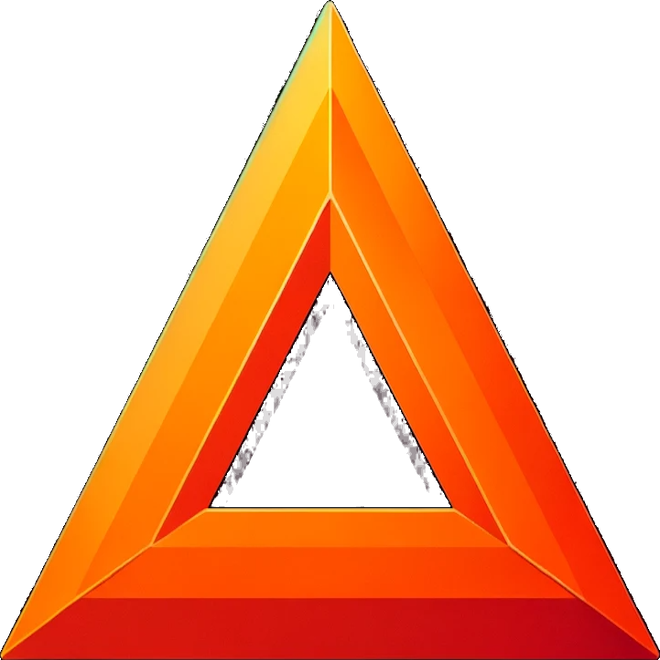
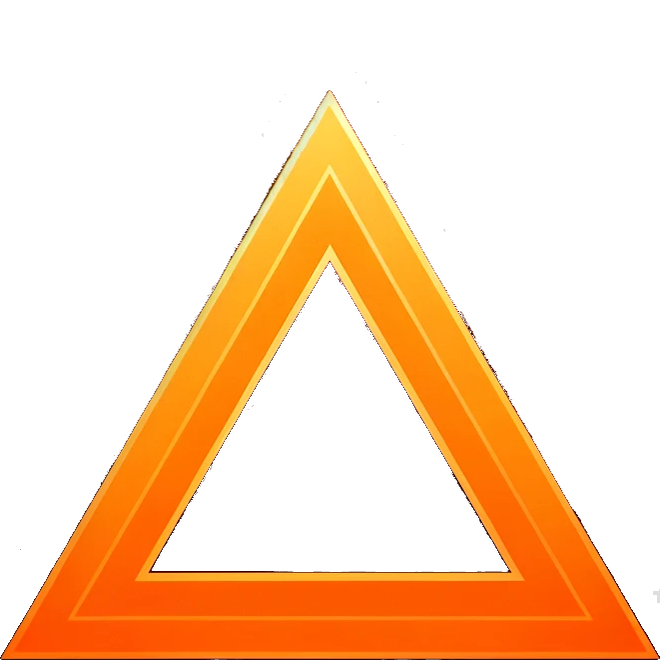
sort of working

diff --git a/src/game.rs b/src/game.rs
@@ -1,10 +1,13 @@
+use crate::collision::check_segment_collision;
 use crate::constants::{
-    ENEMY_BUFFER, ENEMY_SPAWN_FREQ, ENEMY_SPEED, GATE_SPAWN_FREQ, PLAYER_SPEED,
+    ENEMY_BUFFER, ENEMY_SPAWN_FREQ, ENEMY_SPEED, GATE_RADIUS, GATE_SPAWN_FREQ, PLAYER_RADIUS,
+    PLAYER_SPEED,
 };
 use crate::game_object::{Enemy, Gate, Player};
 
 use rand::{thread_rng, Rng};
 use std::collections::HashSet;
+use std::f32::consts::PI;
 use std::f32::EPSILON;
 use winit::event::VirtualKeyCode;
 
@@ -20,6 +23,7 @@ pub struct Game {
     last_gate_time: f32,
     pub keys: HashSet<VirtualKeyCode>,
     enemies_per_wave: u32,
+    aspect_ratio: f32,
 
     pub player: Player,
     pub enemies: Vec<Enemy>,
@@ -27,7 +31,7 @@ pub struct Game {
 }
 
 impl Game {
-    pub fn new() -> Self {
+    pub fn new(aspect_ratio: f32) -> Self {
         Self {
             paused: false,
             timer: 0f32,
@@ -35,6 +39,8 @@ impl Game {
             last_gate_time: 0f32,
             keys: HashSet::new(),
             enemies_per_wave: 1,
+            aspect_ratio,
+
             player: Player::new(),
             enemies: Vec::new(),
             gates: Vec::new(),
@@ -96,6 +102,8 @@ impl Game {
                 // println!("gate rot: {}", gate.rotation);
             }
 
+            self.check_collisions();
+
             self.timer += dt;
 
             if self.timer > self.last_enemy_time + ENEMY_SPAWN_FREQ {
@@ -106,6 +114,56 @@ impl Game {
             if self.timer > self.last_gate_time + GATE_SPAWN_FREQ {
                 println!("spawn gate");
                 self.spawn_gate();
+            }
+        }
+    }
+
+    fn check_collisions(&mut self) {
+        // check player-gate edge collision
+        let (px, py) = self.player.game_object.coords;
+
+        for gate in &self.gates {
+            // cannot use get_vertices method as that ignores rotation
+            // we use rotation for rendering via instances
+            let (gx, gy) = gate.game_object.coords;
+
+            // TODO: debug why this is necessary
+            // if we remove this, then we get lots of false positives from distant gates with
+            // vertices with very similar x coords, e.g.
+            // x1=0.19950452 is between x_min=0.19949819 and x_max=0.1995106
+            // player coords: (-0.15033174, 0.33800787)
+            // PLAYER_RADIUS: 0.05
+            // p=(0.19949819, 0.514558), q=(0.1995106, 0.16814788)
+            let (dx, dy) = (gx - px, gy - py);
+            if dx * dx + dy * dy <= GATE_RADIUS * GATE_RADIUS {
+                let theta = gate.rotation;
+                let s = 1f32 / self.aspect_ratio;
+
+                let v1 = (
+                    s * (gx + GATE_RADIUS * theta.cos()),
+                    gy + GATE_RADIUS * theta.sin(),
+                );
+                let v2 = (
+                    s * (gx + GATE_RADIUS * (theta + 2f32 * PI / 3f32).cos()),
+                    gy + GATE_RADIUS * (theta + 2f32 * PI / 3f32).sin(),
+                );
+                let v3 = (
+                    s * (gx + GATE_RADIUS * (theta + 4f32 * PI / 3f32).cos()),
+                    gy + GATE_RADIUS * (theta + 4f32 * PI / 3f32).sin(),
+                );
+
+                let pairs = vec![(v1, v2), (v2, v3), (v3, v1)];
+
+                for (p, q) in pairs {
+                    if check_segment_collision(&(s * px, py), &p, &q, PLAYER_RADIUS) {
+                        println!("EXPLODE!");
+                        self.paused = !self.paused;
+
+                        println!("player coords: ({}, {})", px, py);
+                        println!("PLAYER_RADIUS: {}", PLAYER_RADIUS);
+                        println!("p={:?}, q={:?}", p, q);
+                    }
+                }
             }
         }
     }

diff --git a/src/collision.rs b/src/collision.rs
@@ -1,0 +1,45 @@
+// check for the collision between a circle of radius r centered at z
+// and the line which contains points p and q
+pub fn check_segment_collision(z: &(f32, f32), p: &(f32, f32), q: &(f32, f32), r: f32) -> bool {
+    // solve for values alpha, beta that parameterize line between segments via
+    // y + alpha * x + beta = 0
+    let alpha = (q.1 - p.1) / (p.0 - q.0);
+    let beta = (p.1 * q.0 - p.0 * q.1) / (p.0 - q.0);
+
+    // now get coefficients of quadratic equation ax^2 + bx + c = 0
+    // by plugging y = -alpha * x - b into circle equation (x-z.0)^2 + (y-z.1)^2 = r^2
+    let a = 1f32 + alpha * alpha;
+    let b = 2f32 * alpha * (beta + z.1) - 2f32 * z.0;
+    let c = z.0 * z.0 + (beta + z.1) * (beta + z.1) - r * r;
+
+    // line and circle intersect iff discrim = b^2 - 4ac >= 0
+    let discriminant = b * b - 4f32 * a * c;
+    if discriminant >= 0f32 {
+        // get x values for solutions
+        let x1 = (-b + discriminant.sqrt()) / (2f32 * a);
+        let x2 = (-b - discriminant.sqrt()) / (2f32 * a);
+
+        // check if it lies between segments
+        let x_min = p.0.min(q.0);
+        let x_max = p.0.max(q.0);
+
+        if ((x1 >= x_min) && (x1 <= x_max)) {
+            println!("x1={} is between x_min={} and x_max={}", x1, x_min, x_max);
+            return true;
+        }
+
+        if ((x2 >= x_min) && (x2 <= x_max)) {
+            println!("x2={} is between x_min={} and x_max={}", x2, x_min, x_max);
+            return true;
+        }
+
+        false
+    } else {
+        false
+    }
+}
+
+pub fn check_point_collision(z: &(f32, f32), p: &(f32, f32), r: f32) -> bool {
+    let (dx, dy) = (z.0 - p.0, z.1 - p.1);
+    dx * dx + dy * dy <= r * r
+}

diff --git a/src/app.rs b/src/app.rs
@@ -33,9 +33,10 @@ pub struct App {
 
 impl App {
     pub async fn new(window: Window) -> Self {
-        let game = Game::new();
-
         let size = window.inner_size();
+        let aspect_ratio = size.width as f32 / size.height as f32;
+        let game = Game::new(aspect_ratio);
+
         // The instance is a handle to our GPU
         // BackendBit::PRIMARY => Vulkan + Metal + DX12 + Browser WebGPU
         let instance = wgpu::Instance::new(wgpu::InstanceDescriptor {

diff --git a/src/game_object.rs b/src/game_object.rs
@@ -154,7 +154,8 @@ impl Sprite for Gate {
         vec![
             Vertex {
                 position: [r * 0f32.cos(), r * 0f32.sin(), 0.0],
-                tex_coords: [t(0.5, i), 0.0],
+                // height of an equilateral triangle with base 1 is sqrt(3)/2
+                tex_coords: [t(0.5, i), 1f32 - 3f32.sqrt() / 2f32],
             }, // A
             Vertex {
                 position: [r * dt.cos(), r * dt.sin(), 0.0],

diff --git a/src/lib.rs b/src/lib.rs
@@ -1,4 +1,5 @@
 mod app;
+mod collision;
 mod constants;
 mod game;
 mod game_object;
